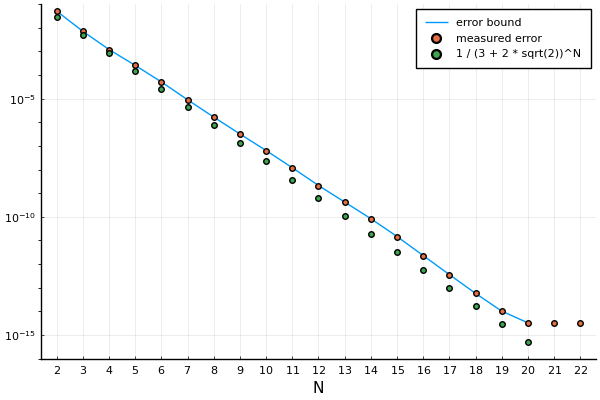
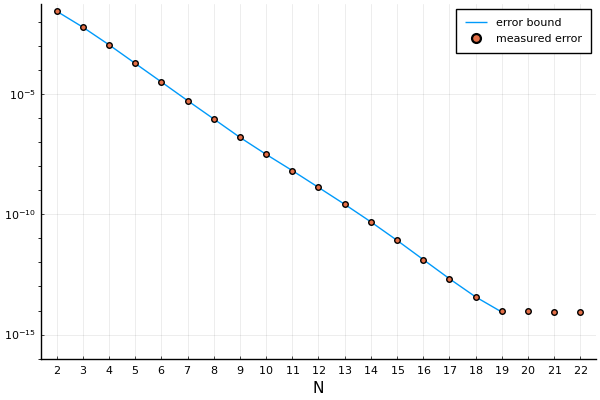
changed presentation of example 3 in readme

diff --git a/README.md b/README.md
@@ -2,7 +2,9 @@
 
 Approximate functions of type $$\mathbb{R}^m \to M^n$$ where $M^n$ is an $n$-dimensional Riemannian manifold manifold.
 
-Depends on `ApproximatingMapsBetweenLinearSpaces.jl`, which is available at TODO.
+Depends on `ApproximatingMapsBetweenLinearSpaces.jl`, which is available at [gitlab.kuleuven.be/numa/software/ApproximatingMapsBetweenLinearSpaces](https://gitlab.kuleuven.be/numa/software/ApproximatingMapsBetweenLinearSpaces).
+
+If you use this software in your work, please cite TODO.
 
 ## Example 1
 
@@ -26,34 +28,14 @@ This figure illustrates the approximation accuracy by showing the image on $H^2$
 ## Example 3
 
 Approximate
-$$f \colon [2, 4] \times [-1, 1] \to \mathrm{Gr}(100, 3), x \mapsto \mathrm{span}\{b, A(x) b, A(x)^2, A(x)^3 b\}$$
-where $b$ is a random $100$-vector and
 $$
-A(x) = 100
-\begin{bmatrix}
-	2	&	-1		&\\
-	-1	&	\ddots 	&	\ddots\\
-		&	\ddots	&	2	&	-1\\
-		&			&	-1	&	1
-\end{bmatrix}
--
-\frac{x_1}{600}
-\begin{bmatrix}
-	4	&	1		&\\
-	1	&	\ddots 	&	\ddots\\
-		&	\ddots	&	4	&	1\\
-		&			&	1	&	2
-\end{bmatrix}
-+
-\frac{x_1}{x_1 - x_2}
-\begin{bmatrix}
-	0	&			&\\
-		&	\ddots	&	\\
-		&			&	0	&	\\
-		&			&		&	1
-\end{bmatrix}
+f \colon [1, 2]  \to \mathrm{Gr}(100, 3), t \mapsto \mathrm{span}\{b, A(t) b, A(t)^2, A(t)^3 b\}
 $$
-See the [NLEVP](https://eprints.maths.manchester.ac.uk/2697/3/nlevp_ugVer4.pdf) repository.
+where $b$ is a random $100$-vector and $A(t)$ is a discretization of the kernel
+$$
+K(x, x', t) = \frac{2}{\pi} \sum_{l = 1}^\infty \sin(l x) \sin(l x') \exp(-t l^2 / 4).
+$$
+The kernel appears when solving the heat equation on a finite interval with endpoints held at a fixed temperature.
 This figure illustrates the approximation accuracy compared to what is predicted by the theory:
 
 ![Plot](examples/Example3.png)
